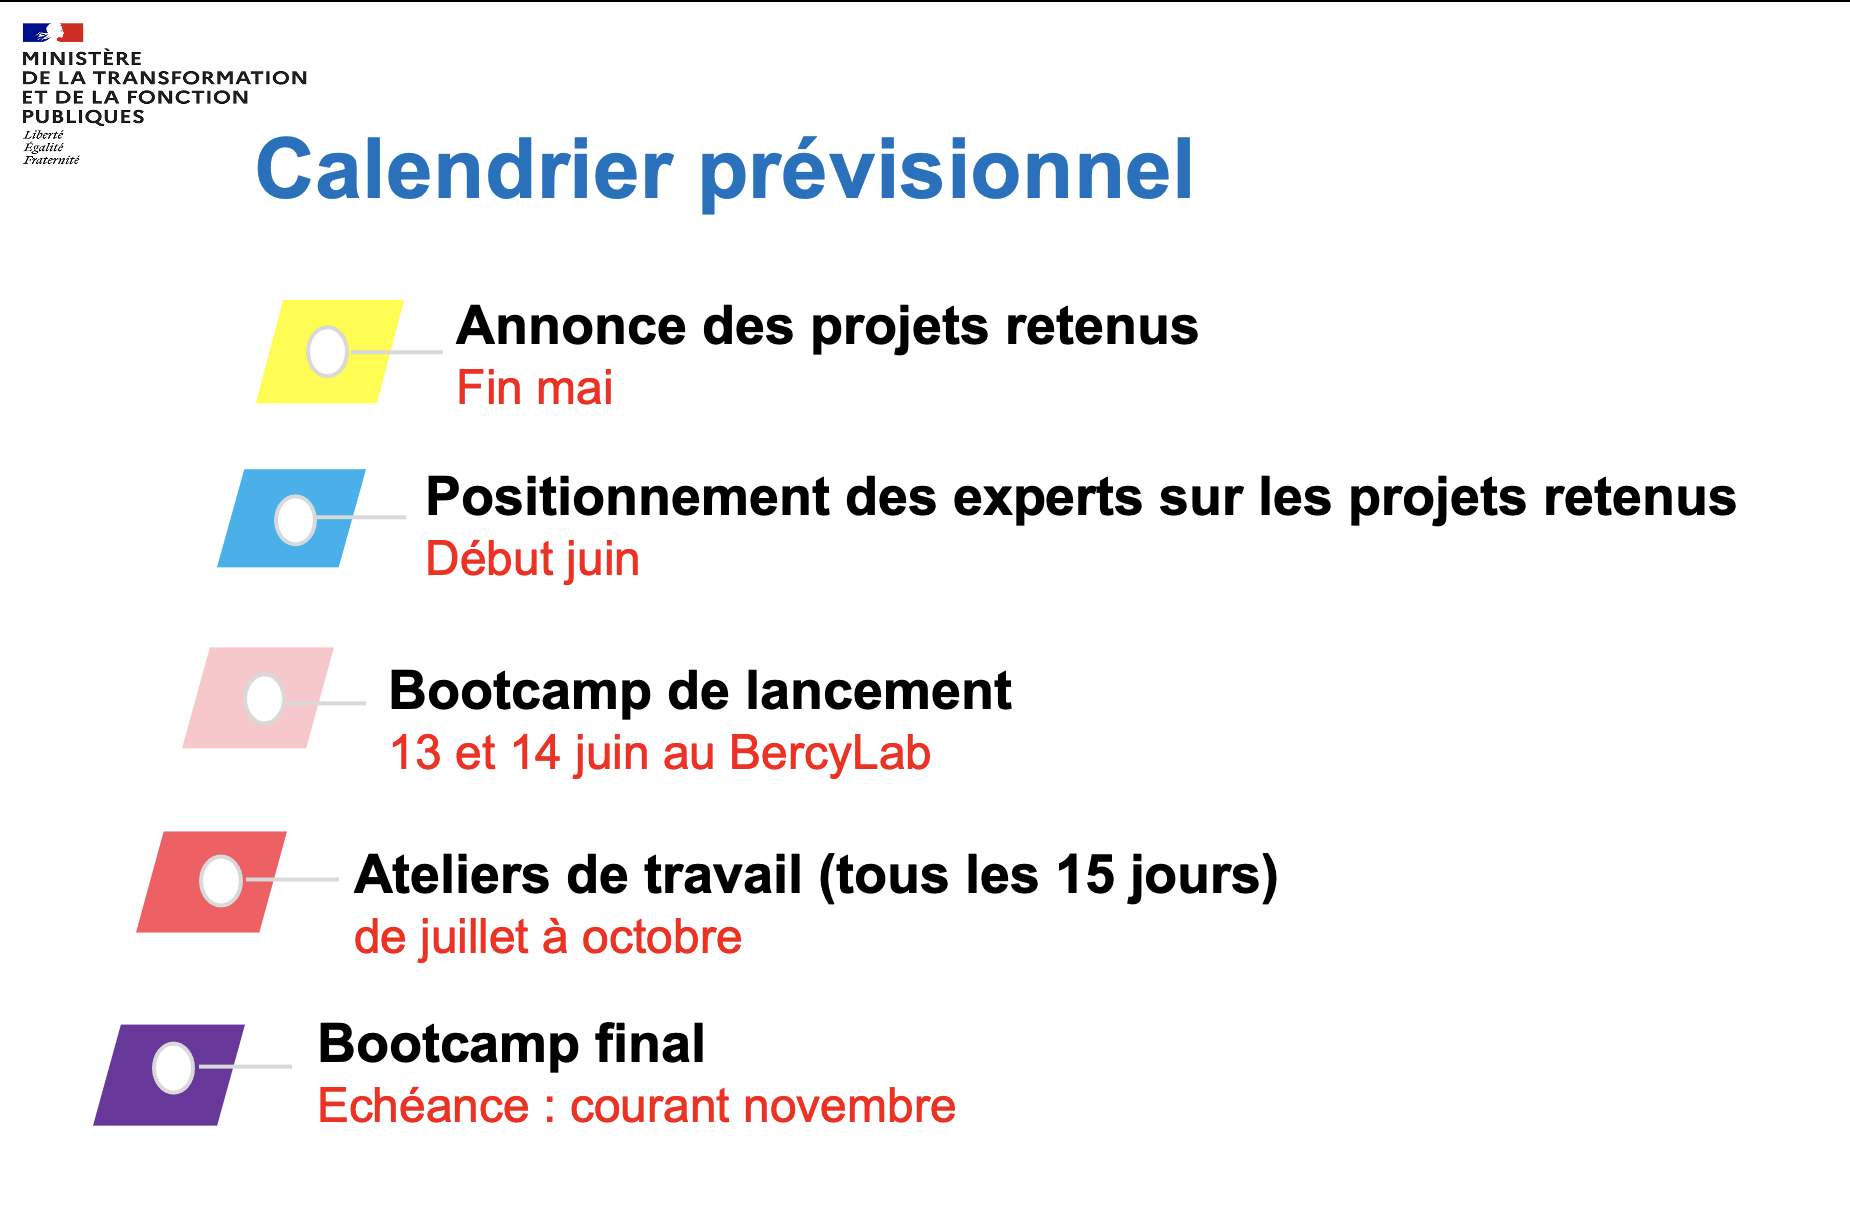
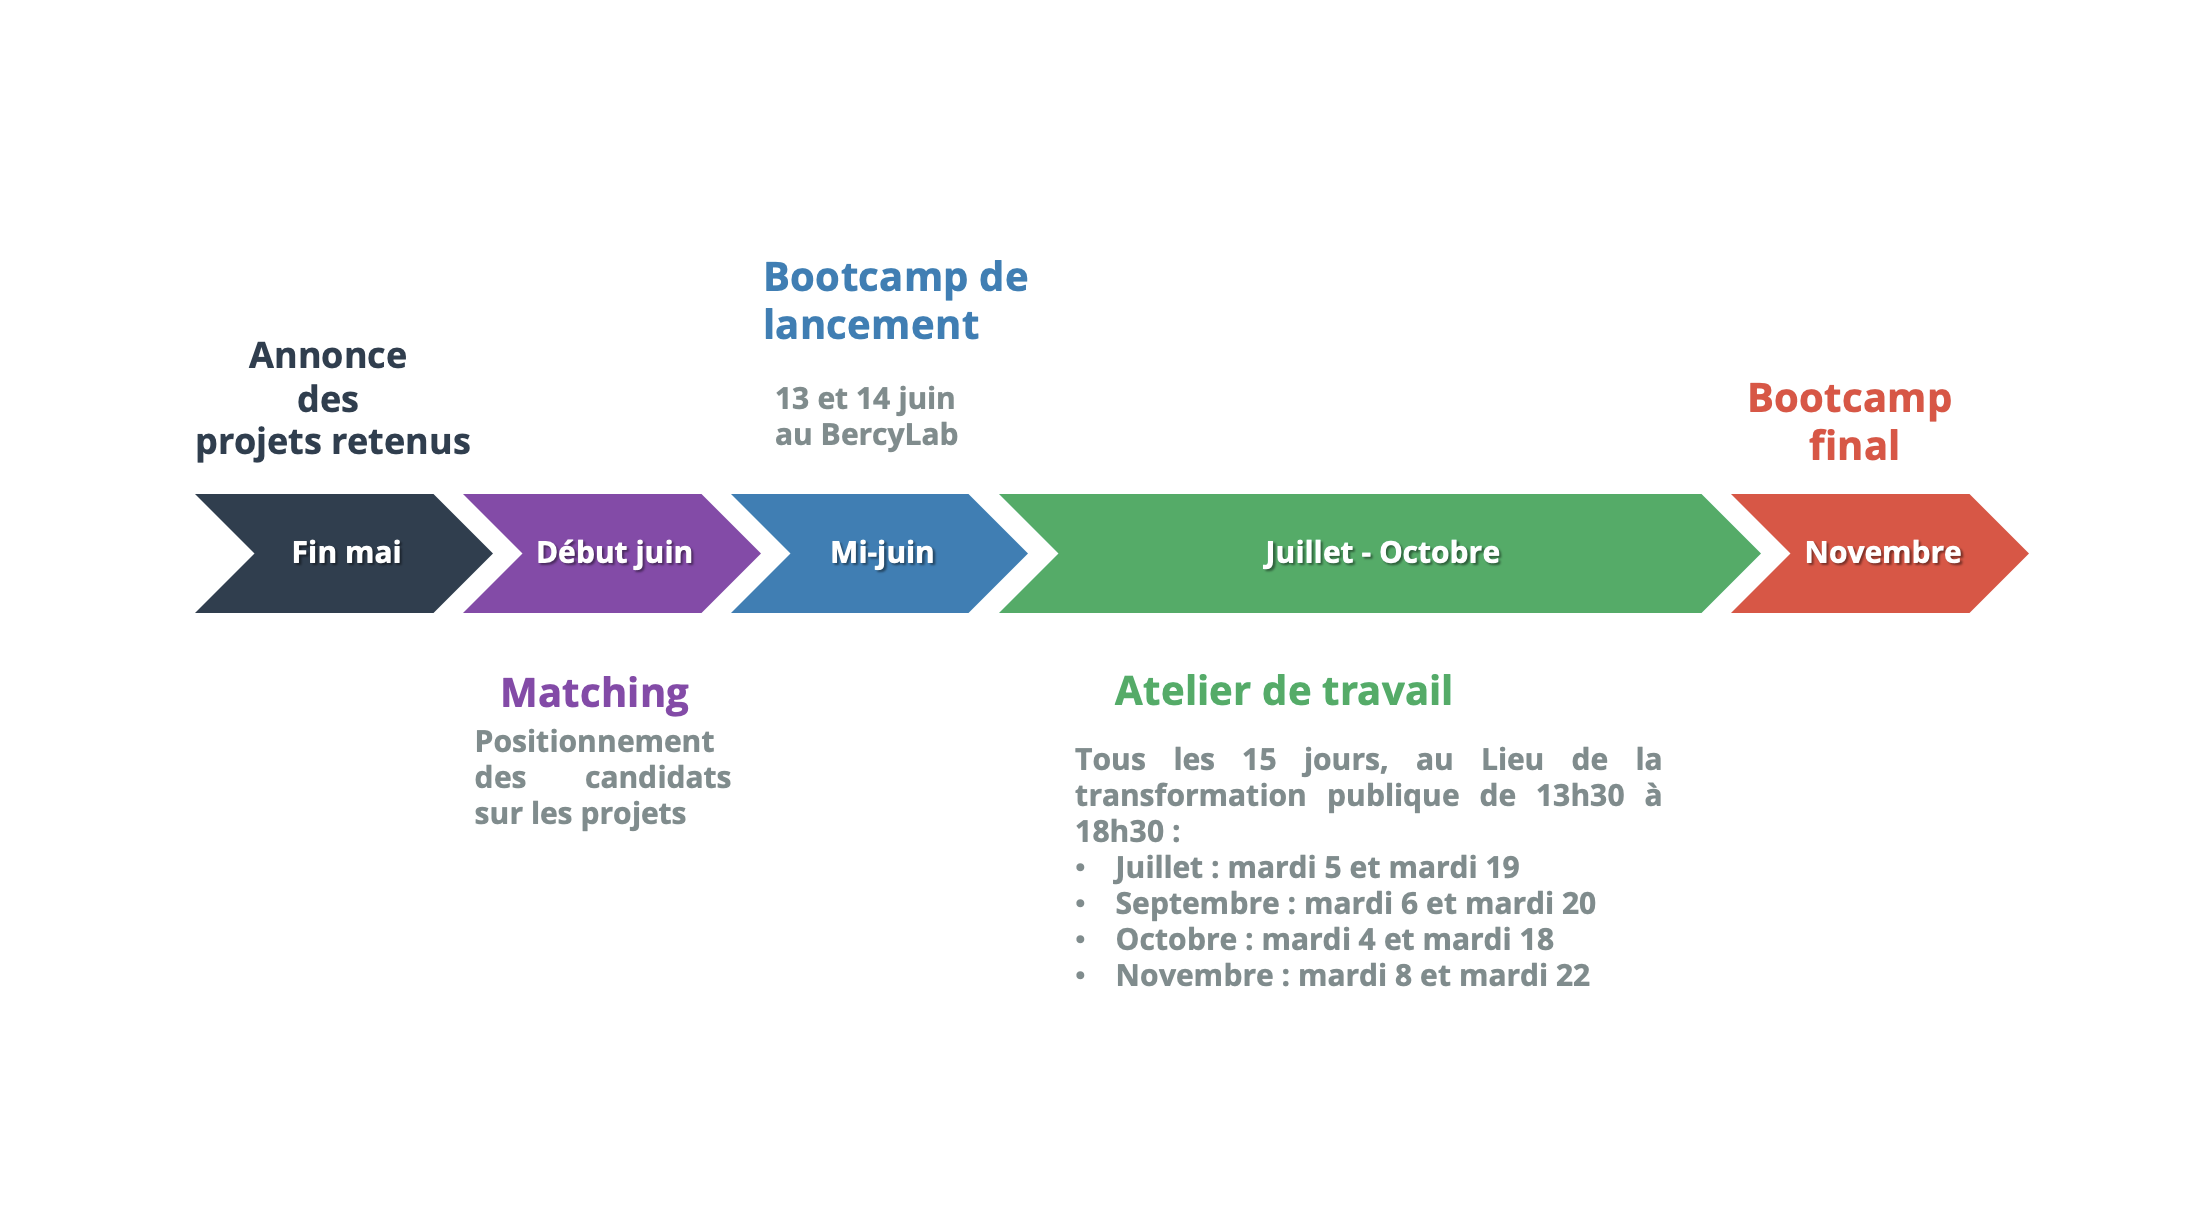
update calendrier

diff --git a/content/actualites/2022-05-16_atelier.md b/content/actualites/2022-05-16_atelier.md
@@ -4,16 +4,43 @@ slug: atelier-ideation
 date: 2022-05-16T13:00:00+01:00
 summary: Atelier d'idéation afin d'identifier les projets accompagnés par le programme
 images: 
-    - /img/atelier_ideation.png
+    - /img/photo_atelier_ideation.jpg
 ---
+
+### Les objectifs de l'atelier d'idéation 
 
 L'objectif de l'atelier d'idéation est d'identifier des projets d'intérêt commun entre les ministères. Cet atelier permettra, grâce aux ateliers de co-construction, de présélectionner parmi les projets pitchés, ceux qui seront accompagnés par le programme 10%. 
 Le programme 10% est une expérimentation qui vise à encourager le travail entre pairs en permettant aux experts de la donnée de la sphère publique de consacrer une partie de leur temps de travail à des projets d’intérêt partagé à l’échelle interministérielle.  
-Vous souhaitez soumettre une idée de projet d'intérêt commun ? Vous répondre à [ce questionnaire](https://framaforms.org/appel-a-idees-de-projets-programme-10-pourcent-1648137237) ou nous écrire à l'adresse lab-ia@data.gouv.fr . 
-Déroulé de la matinée :
-* 9h30 : accueil café 
-* Présentation du programme 10% par l'équipe du Lab IA
-* Pitchs des projets d'intérêt commun remontés en amont de l'atelier via le questionnaire 
-*Ateliers sur les différents projets afin de réfléchir à la problématique, au cadrage et aux solutions 
 
-Pour les participants souhaitant participer en distanciel, nous vous remercions de contacter directement l'équipe du Lab IA : lab-ia@data.gouv.fr
+### Une participation large
+*25 participant(e)s* aux profils variés : data scientists, déveleppeurs, data engineer, chefs de pôle, AMDAC, etc. 
+
+### Une représentation diversifiée 
+* Ministère de l'éducation nationale, de la jeunesse et des sports
+* Ministère de l'Intérieur (Gendarmerie Nationale, DNUM)
+* Ministère de la transition écologique
+* Ministère de solidarités et de la Santé
+* Ministère du Travail, de l'Emploi et de l'Insertion
+* Ministère des Armées
+* Ministère de l'économie, des finances et de la relance (PEReN)
+* Direction Interministérielle de la transformation publique
+* INSEE
+* DARES
+* Cour de Cassation 
+
+#### 5 ateliers de travail autour des projets suivants: 
+
+* Siretisation des entreprises 
+* Le scraping des offres d’emploi
+* La classification de texte, appliquée aux offres d'emploi 
+* Faciliter la réutilisation des données INSEE et des données géographiques
+* OCR et extraction d’information de documents administratifs
+
+Pour obtenir plus d'informations sur ces projets, visitez la section [Projets 10%]({{< ref "/projets" >}} "Projets")
+
+### Déroulé de la matinée :
+* 9h30 : accueil café 
+* Présentation du programme 10% par l'équipe du Lab IA et l'INSEE
+* Pitchs des projets d'intérêt commun remontés en amont de l'atelier via le questionnaire 
+* Ateliers sur les différents projets afin de réfléchir à la problématique, au cadrage et aux solutions 
+

diff --git a/content/actualites/2022-05-04_calendrier.md b/content/actualites/2022-05-04_calendrier.md
@@ -8,15 +8,25 @@ images:
 ---
 
 
-## Mi mai 2022 : Identification des projets d'intérêt commun et constitution des équipes 
-A la suite de l'atelier d'idéation du 16 mai (de 9h30 à 12h30 au Lieu de la Transformation publique, inscription [ici](https://www.eventbrite.fr/e/billets-atelier-dideation-du-programme-10-308699397207), les projets accompagnés seront sélectionnés et des équipes seront consituées sur la base d'un matching entre les souhaits exprimés par les candidats et les compétences nécessaires à chaque projet. 
+### Mi mai 2022 : Identification des projets d'intérêt commun et constitution des équipes 
+A la suite de l'atelier d'idéation du 16 mai (de 9h30 à 12h30 au Lieu de la Transformation publique, les projets accompagnés seront sélectionnés et des équipes seront consituées sur la base d'un matching entre les souhaits exprimés par les candidats et les compétences nécessaires à chaque projet. 
 
-## 13 et 14 juin 2022 : Bootcamp de lancement
+### 13 et 14 juin 2022 : Bootcamp de lancement
 Deux journées au Bercy Lab afin de travailler en équipe sur les projets. 
+Au programme:
+* Cadrage de la problématique, des besoins auxquels on répond
+* Identification des jeux de données à utiliser
+* Réflexion et priorisation des cas d'usage
+* Selon la maturité du projet, mise en place d'un environnement de travail partagé, premiers développement
 
-## De juin à octobre 2022: Ateliers de travail tous les 15 jours 
+### De juin à octobre 2022: Ateliers de travail tous les 15 jours 
+Tous les 15 jours, au Lieu de la transformation publique de 13h30 à 18h30 :
+* Juillet : mardi 5 et mardi 19 
+* Septembre : mardi 6 et mardi 20
+* Octobre : mardi 4 et mardi 18
+* Novembre : mardi 8 et mardi 22
 
-## Début novembre : bootcamp final 
+### Début novembre : bootcamp final 
 Bootcamp afin de finaliser les projets, dresser un bilan des réalisations et d'éventuelles prochaines étapes. 
 
-## Courant décembre : Retex et réflexion collective sur la suite du programme
+### Courant décembre : Retex et réflexion collective sur la suite du programme

diff --git a/content/actualites/2022-06-03_presentation_programme.md b/content/actualites/2022-06-03_presentation_programme.md
@@ -1,7 +1,7 @@
 ---
 title: "Lancement du programme"
 slug: lancement-programme
-date: 2022-06-03T13:00:00+01:00
+date: 2022-05-03T13:00:00+01:00
 summary: En 2022, la DINUM lance le programme 10%.
 images: 
     - /img/visuel_programme_10_pourcent.png
